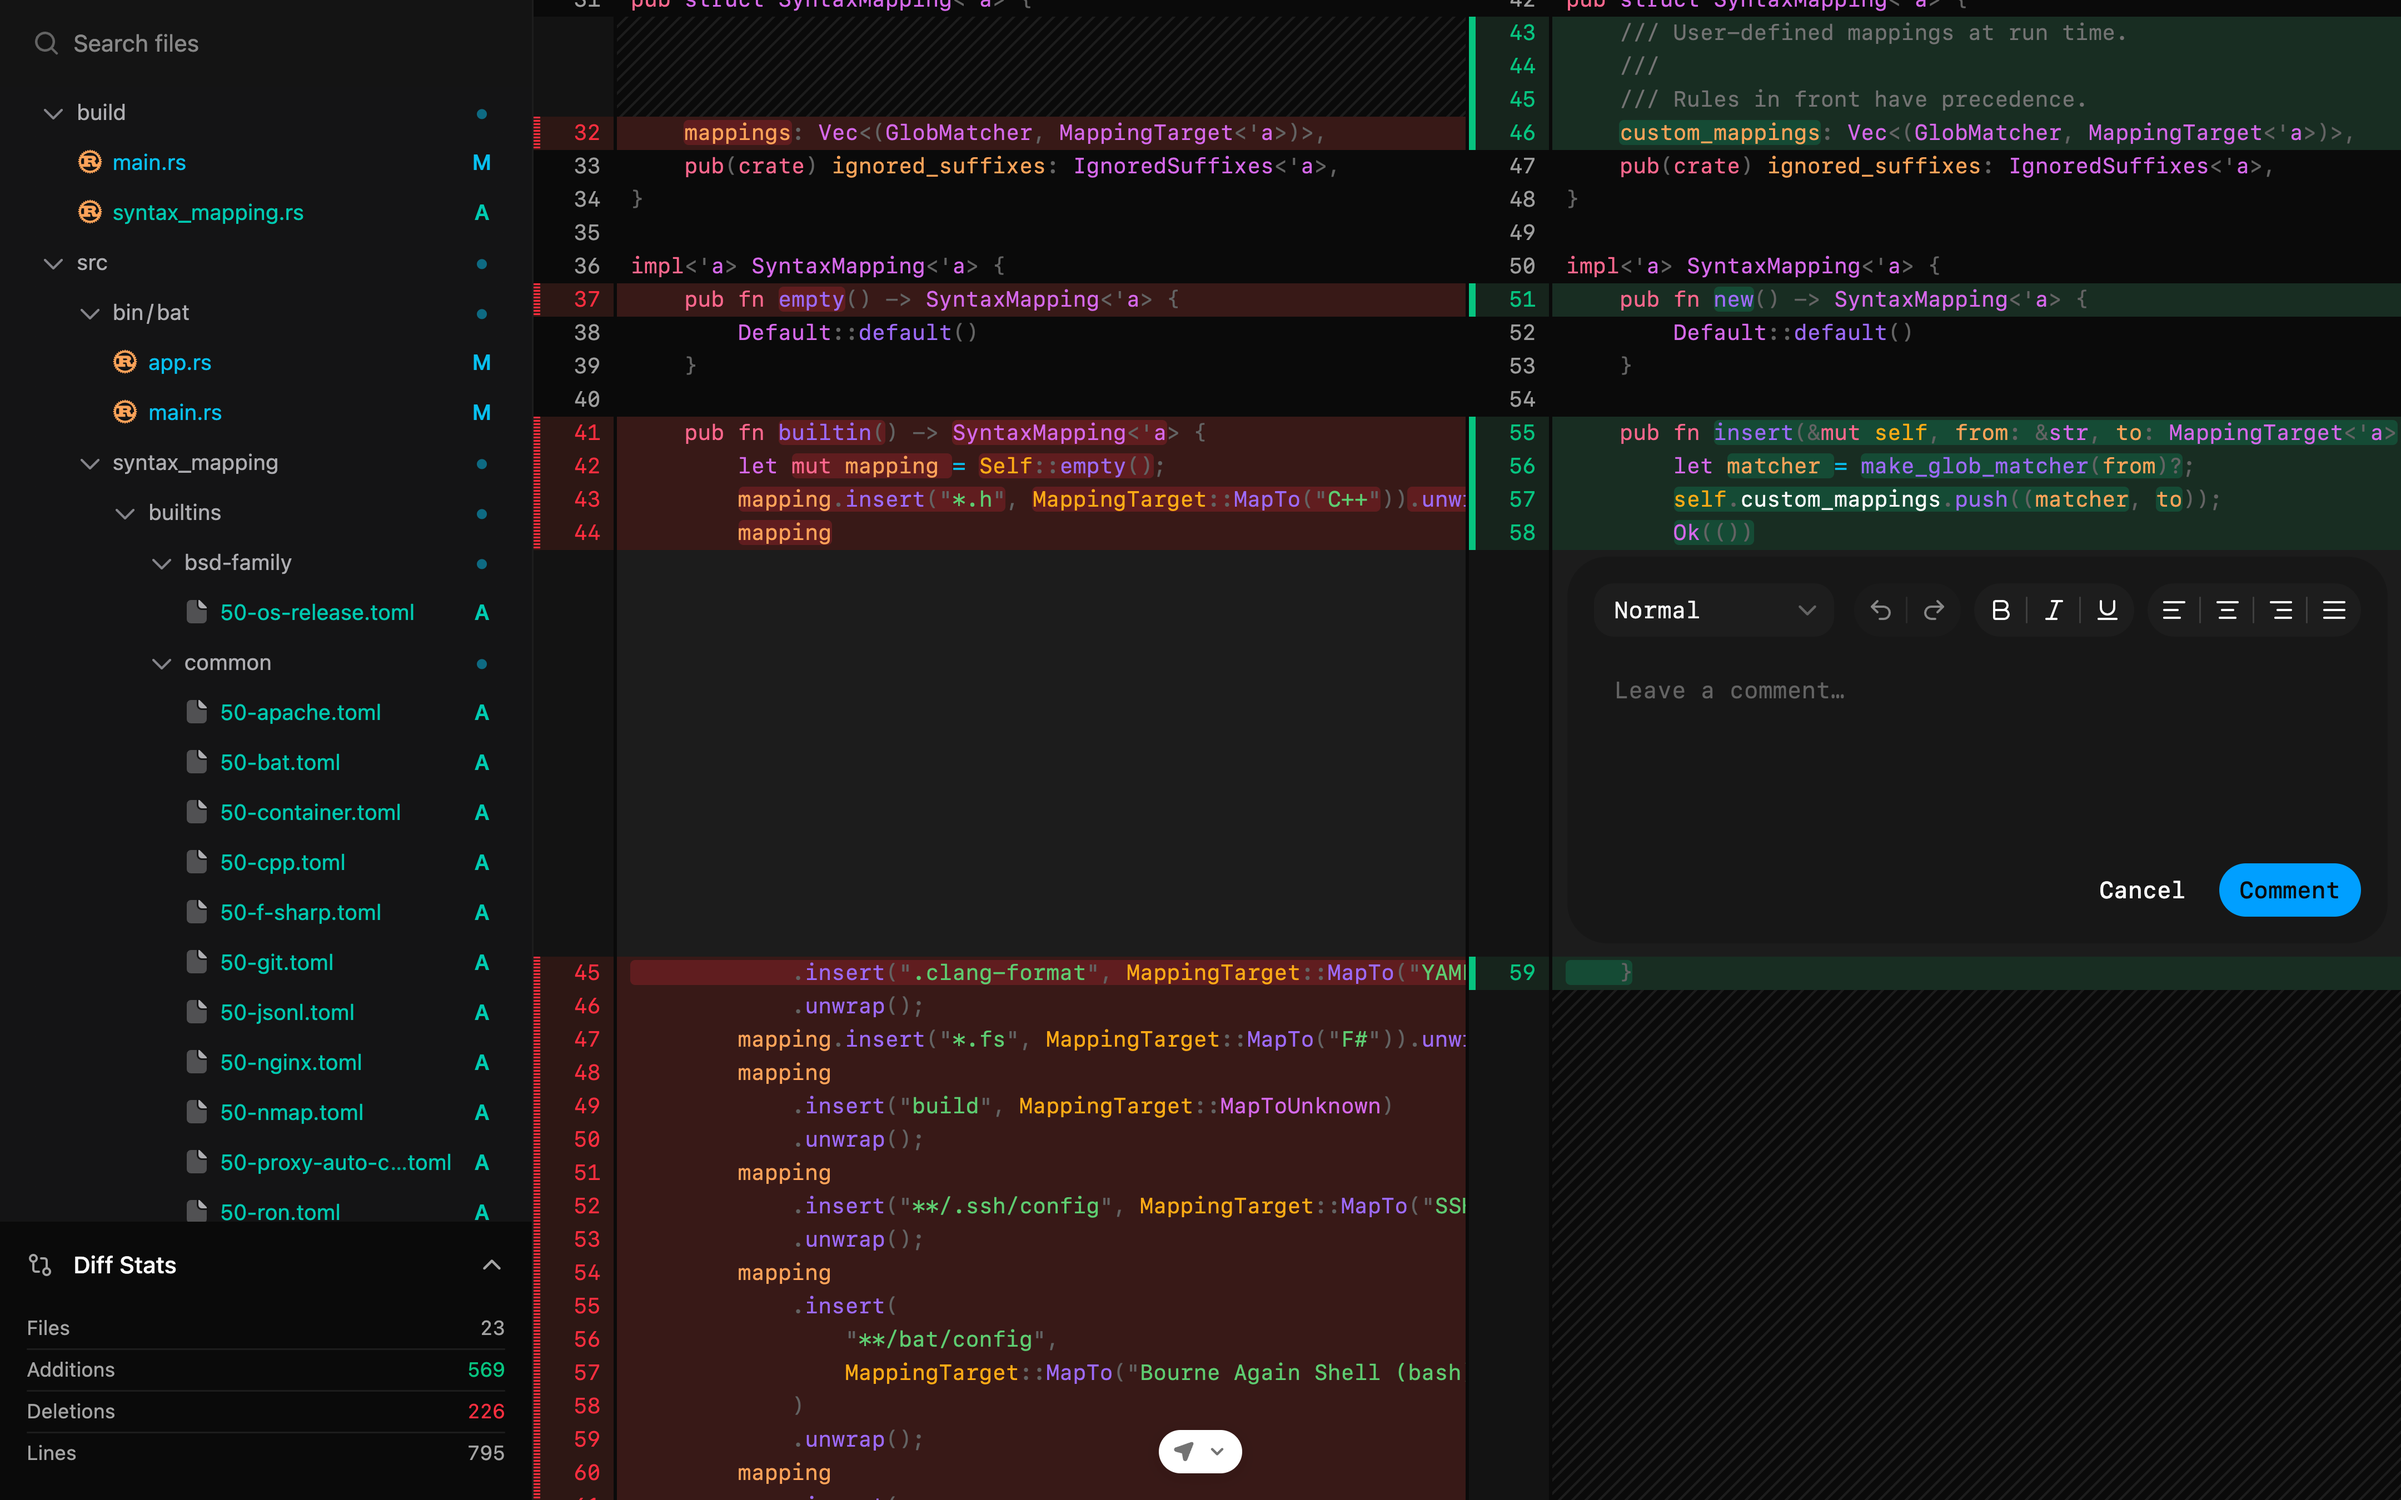
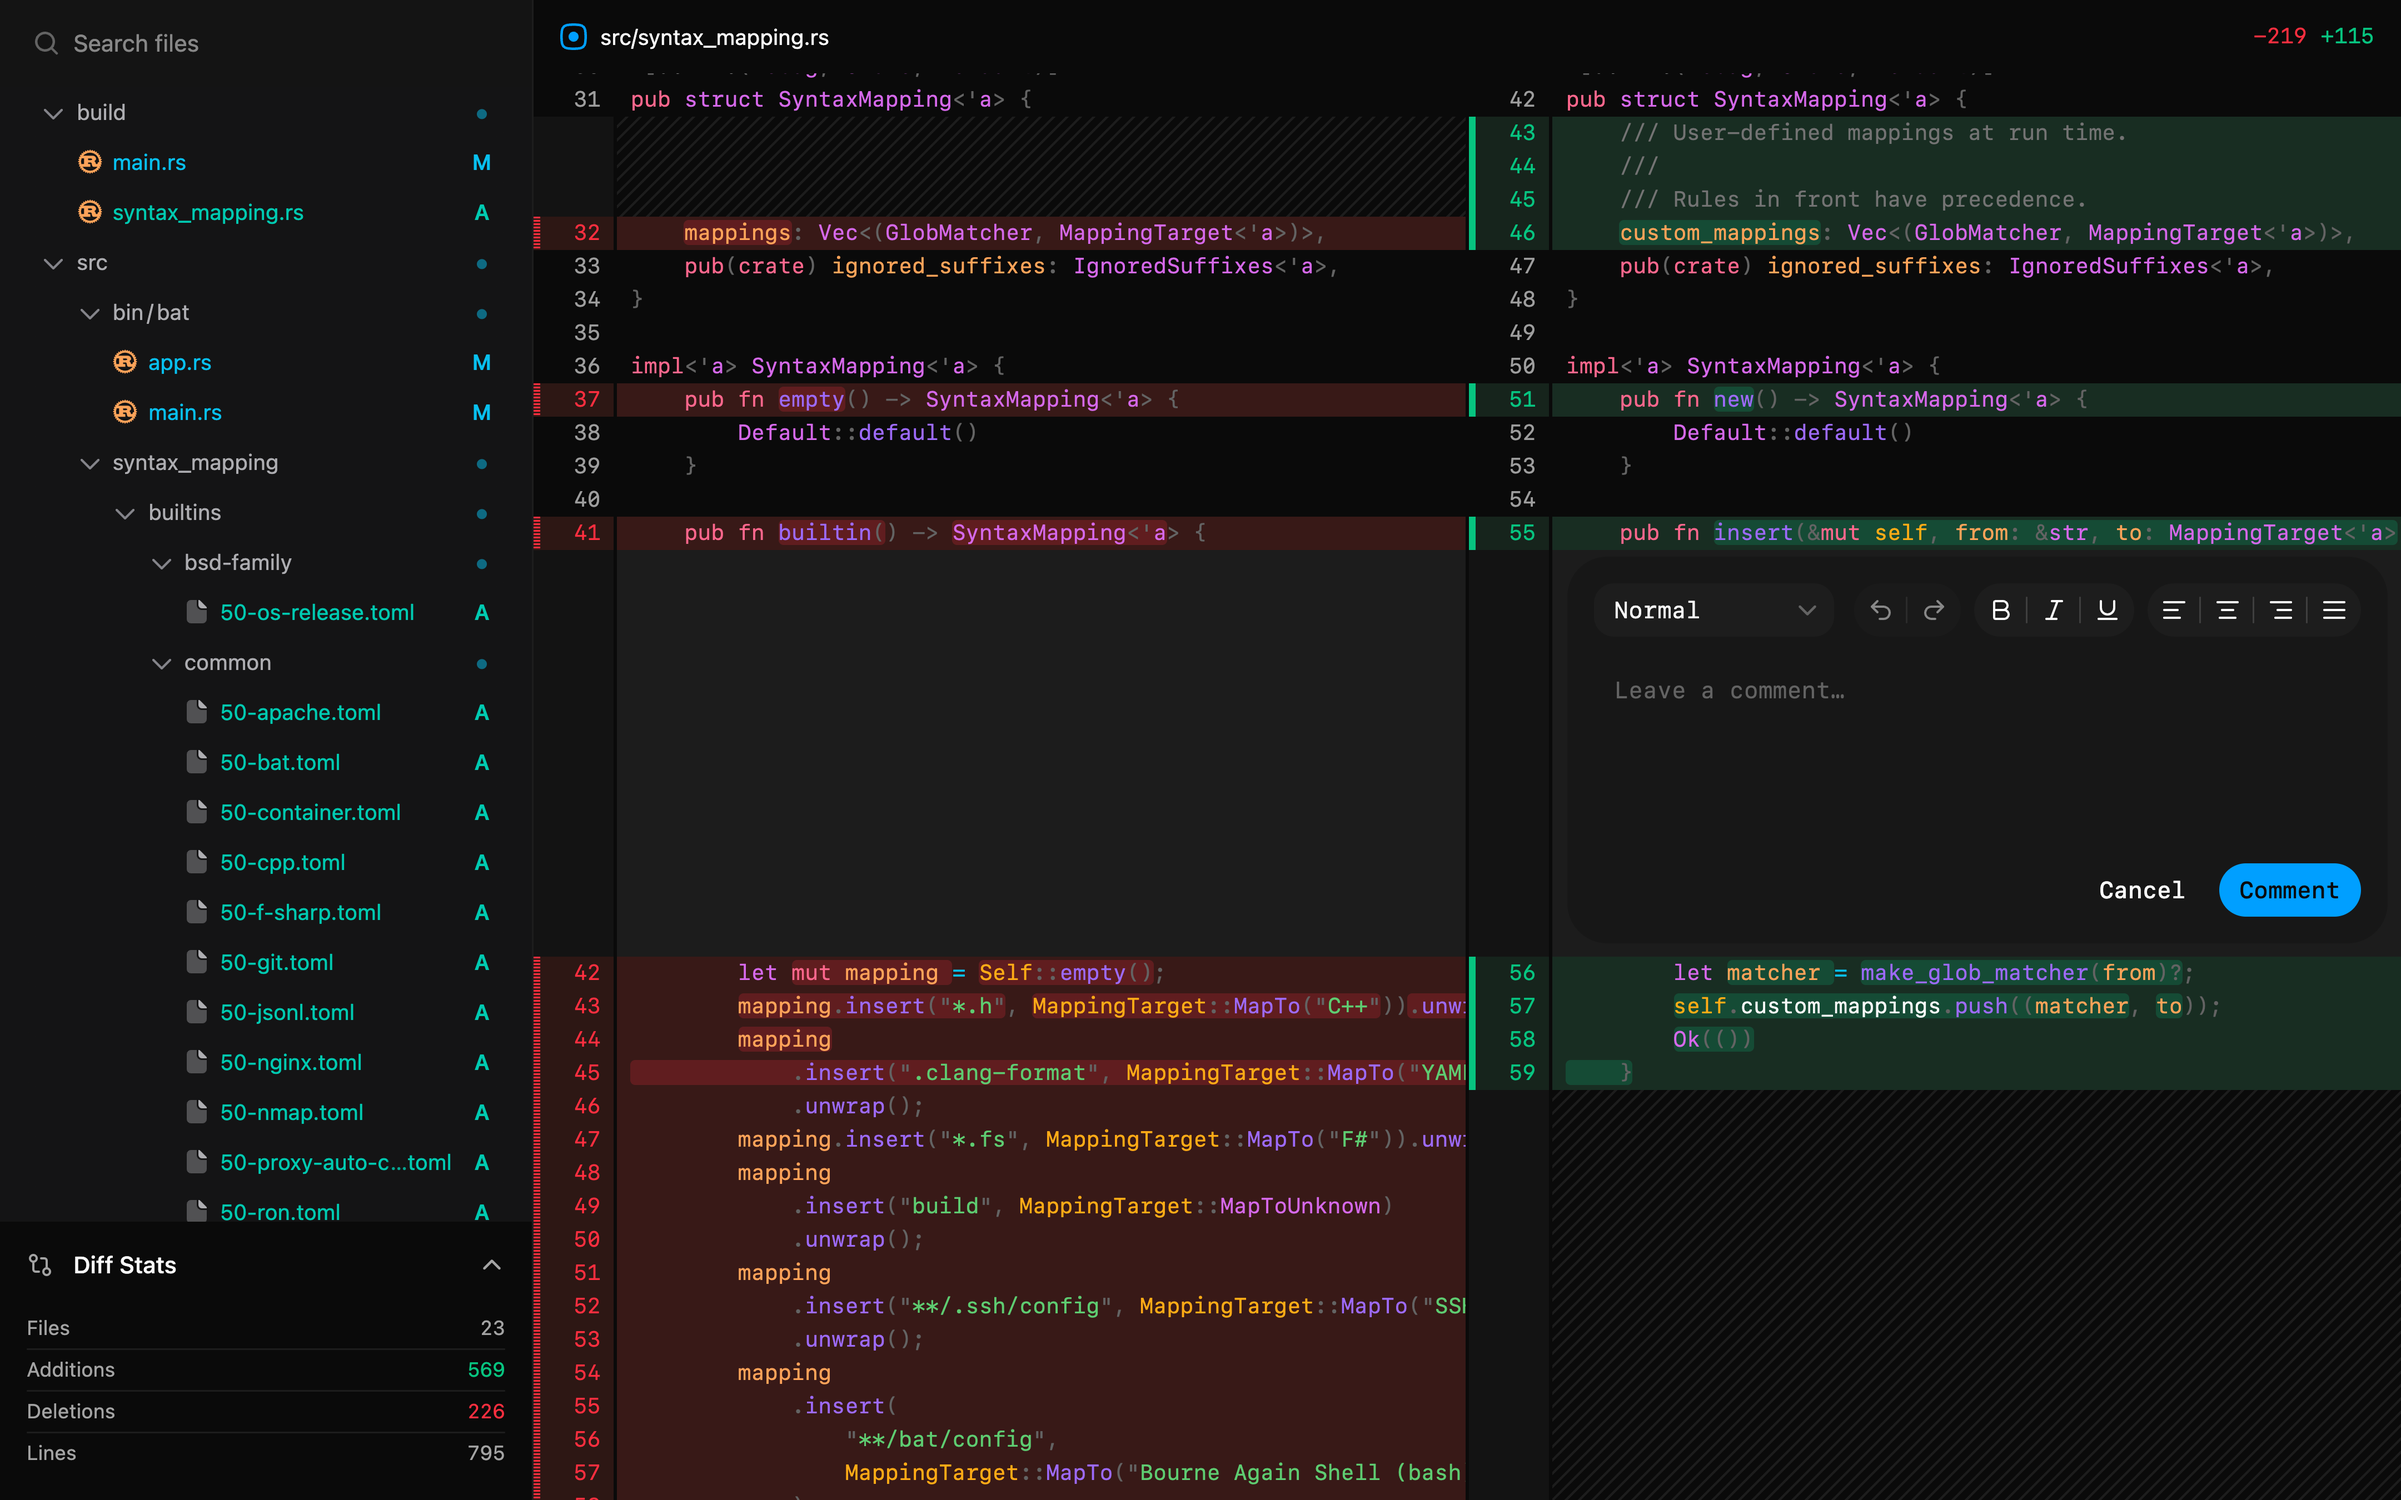
Retake README screenshots without react-grab dev tools

diff --git a/app/layout.tsx b/app/layout.tsx
@@ -1,9 +1,6 @@
 import './_globals.css';
 
-import Script from 'next/script';
-
 import {Providers} from '@/app/_providers';
-import {env} from '@/lib/env';
 
 import type {Metadata} from 'next';
 
@@ -14,15 +11,6 @@ export const metadata: Metadata = {
 export default function RootLayout({children}: LayoutProps<'/'>) {
   return (
     <html lang="en">
-      <head>
-        {env.NODE_ENV === 'development' && (
-          <Script
-            src="//unpkg.com/react-grab/dist/index.global.js"
-            strategy="beforeInteractive"
-            crossOrigin="anonymous"
-          />
-        )}
-      </head>
       <body className="bg-background text-foreground">
         <Providers>{children}</Providers>
       </body>
